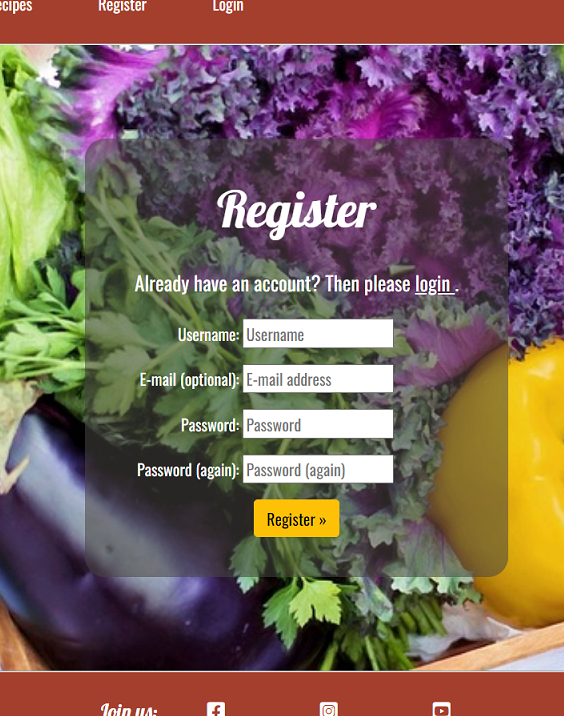
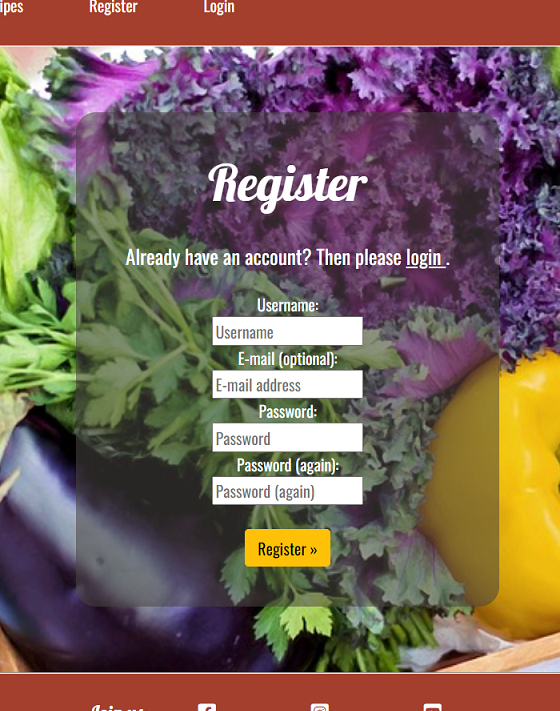
deployment commit

diff --git a/templates/account/signup.html b/templates/account/signup.html
@@ -17,19 +17,9 @@
       <form class="signup text-white" id="signup_form" method="post" action="{% url 'account_signup' %}">
         {% csrf_token %}
         <div>
-          <div class="username-and-email">
-            <div>
-                {{ form.username.errors }}
-                <label for="{{ form.username.id_for_label }}">Username:</label>
-                {{ form.username }}
-            </div>
-            <div>
-                {{ form.email.errors }}
-                <label for="{{ form.email.id_for_label }}">Email:</label>
-                {{ form.email }}
-            </div>
-        </div>
-        
+          {% for field in form %}
+          {{ field.label_tag }}</br> {{ field }}</br>
+          {% endfor %}
         {% if redirect_field_value %}
         <input type="hidden" name="{{ redirect_field_name }}" value="{{ redirect_field_value }}" />
         {% endif %}
@@ -37,6 +27,7 @@
       </br>
         <button class="btn btn-warning" type="submit">{% trans "Register" %} &raquo;</button>
       </form>
+
     </div>
   </div>
 </div>  

diff --git a/static/css/style.css b/static/css/style.css
@@ -310,10 +310,6 @@ a {text-decoration: none}
     margin-right: 20%;
   }
 
-  .username-and-email {
-    display: flex;
-    
-}
 
 @media only screen and (max-width: 1280px){
 
